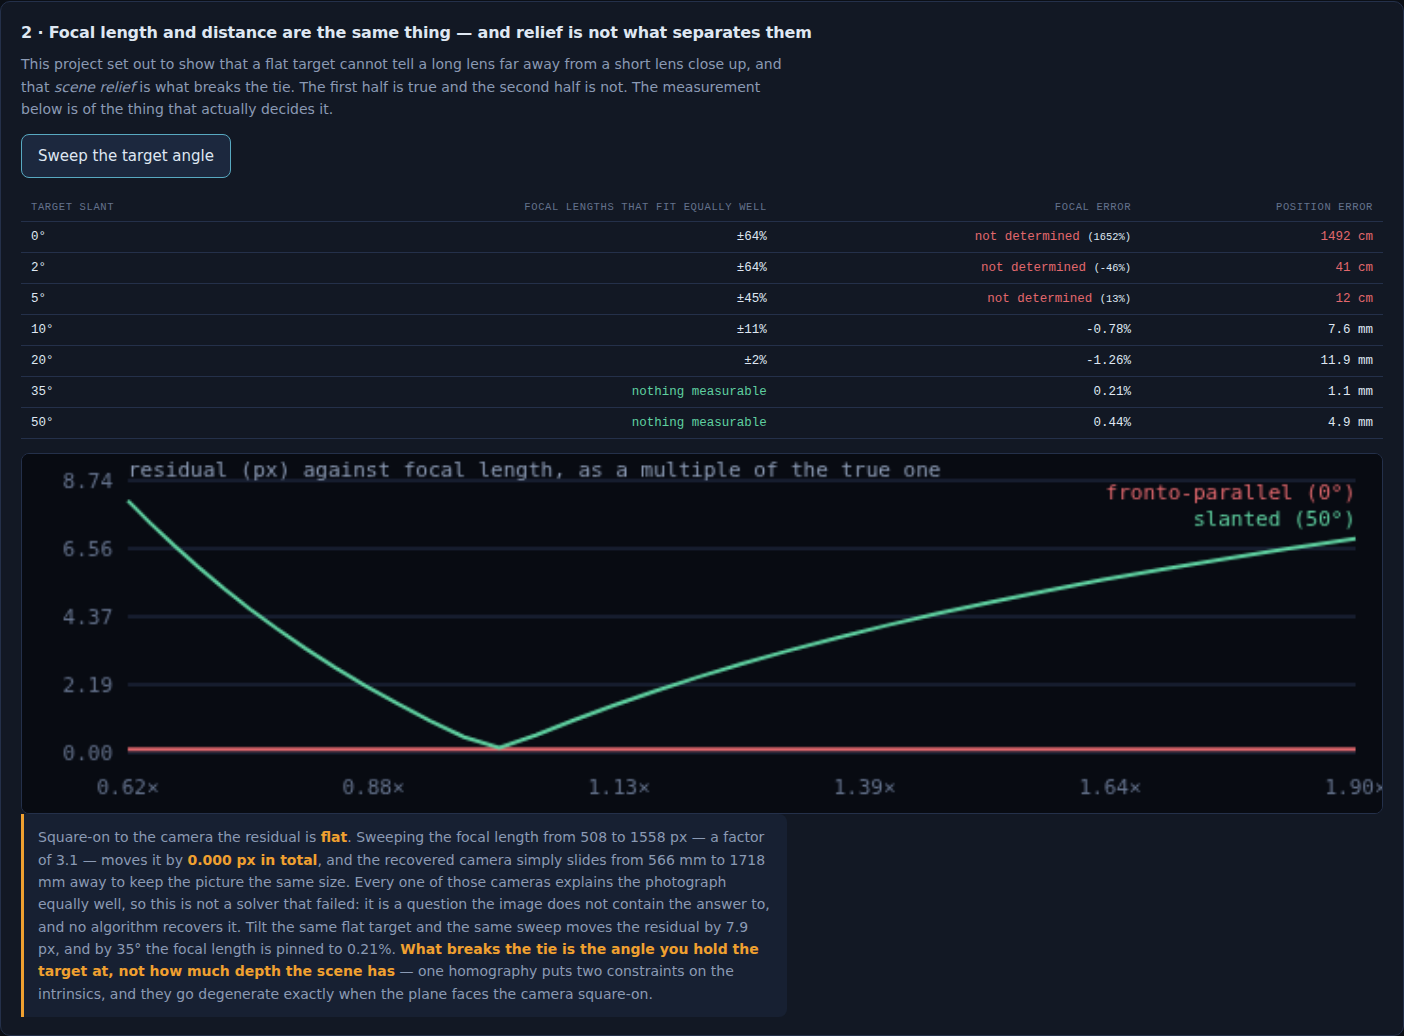
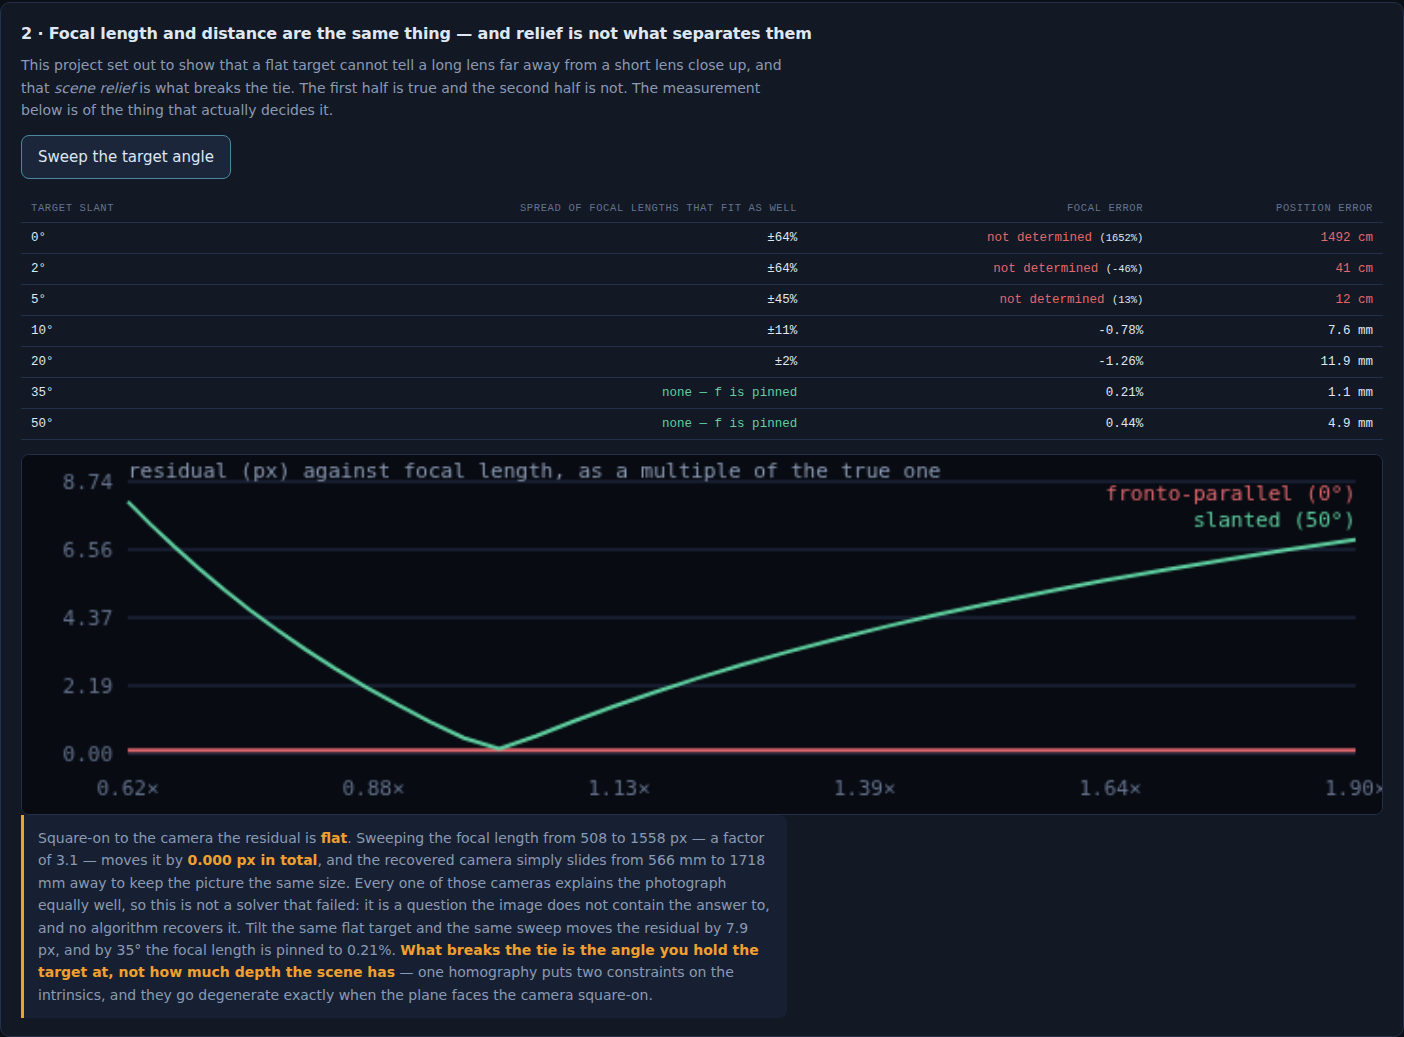
Name the focal-length column for what it measures
The column reports the SPREAD of focal lengths that fit the photograph as
well as the best one, so the well-determined case is the one with nothing
in it. Headed "focal lengths that fit equally well" with a value of
"nothing measurable", that read backwards -- as though the good case were
the one where nothing could be measured.

Claude-Session: https://claude.ai/code/session_01NZ58JDvqy9toix2gkGeM1c

diff --git a/showcase/apps/anamorph/main.js b/showcase/apps/anamorph/main.js
@@ -243,7 +243,7 @@ const EXPERIMENTS = {
       const dead = r.valley > 0.25;
       return [
         `${r.slantDeg}°`,
-        r.valley === 0 ? '<span class="good">nothing measurable</span>' : `±${(100 * r.valley / 2).toFixed(0)}%`,
+        r.valley === 0 ? '<span class="good">none \u2014 f is pinned</span>' : `\u00b1${(100 * r.valley / 2).toFixed(0)}%`,
         dead ? `<span class="bad">not determined</span> <small>(${r.fErrPct.toFixed(0)}%)</small>`
              : `${r.fErrPct.toFixed(2)}%`,
         !r.score ? '—'
@@ -252,7 +252,7 @@ const EXPERIMENTS = {
       ];
     });
     const el = document.createElement('div');
-    el.innerHTML = table(['target slant', 'focal lengths that fit equally well', 'focal error', 'position error'], body);
+    el.innerHTML = table(['target slant', 'spread of focal lengths that fit as well', 'focal error', 'position error'], body);
     const norm = (r) => r.curve.map((p) => [p.f / r.truthF, p.rms]);
     el.appendChild(chart([
       { pts: norm(flat), colour: '#e2686d', label: 'fronto-parallel (0°)' },
@@ -284,11 +284,11 @@ const EXPERIMENTS = {
     const body = rows.map((r, i) => [
       r.relief.toFixed(2),
       flatness[i] < 1e-6 ? `${flatness[i].toExponential(0)} mm` : `${flatness[i].toFixed(1)} mm`,
-      r.valley === 0 ? '<span class="good">nothing measurable</span>' : `±${(100 * r.valley / 2).toFixed(0)}%`,
+      r.valley === 0 ? '<span class="good">none \u2014 f is pinned</span>' : `\u00b1${(100 * r.valley / 2).toFixed(0)}%`,
       `${r.fErrPct.toFixed(2)}%`,
       r.score ? `${r.score.posErr.toFixed(2)} mm` : '—',
     ]);
-    return table(['relief setting', 'departure from a plane', 'focal lengths that fit equally well', 'focal error', 'position error'], body)
+    return table(['relief setting', 'departure from a plane', 'spread of focal lengths that fit as well', 'focal error', 'position error'], body)
       + verdict(`The plan was that flattening the markers into one plane would make the focal length unrecoverable, and it does not: at <strong>exactly zero relief</strong> — the markers coplanar to ${flatness[0].toExponential(0)} mm — the focal length still comes back to ${Math.abs(rows[0].fErrPct).toFixed(2)}%, and no setting in the sweep is measurably better than any other. The reason is in finding 2: these markers lie on the floor and are seen at a steep angle, and a slanted plane determines the focal length on its own. The experiment was measuring the wrong variable. It is kept here because deleting it would leave finding 2 looking like something this project knew in advance.`, true);
   },
 
